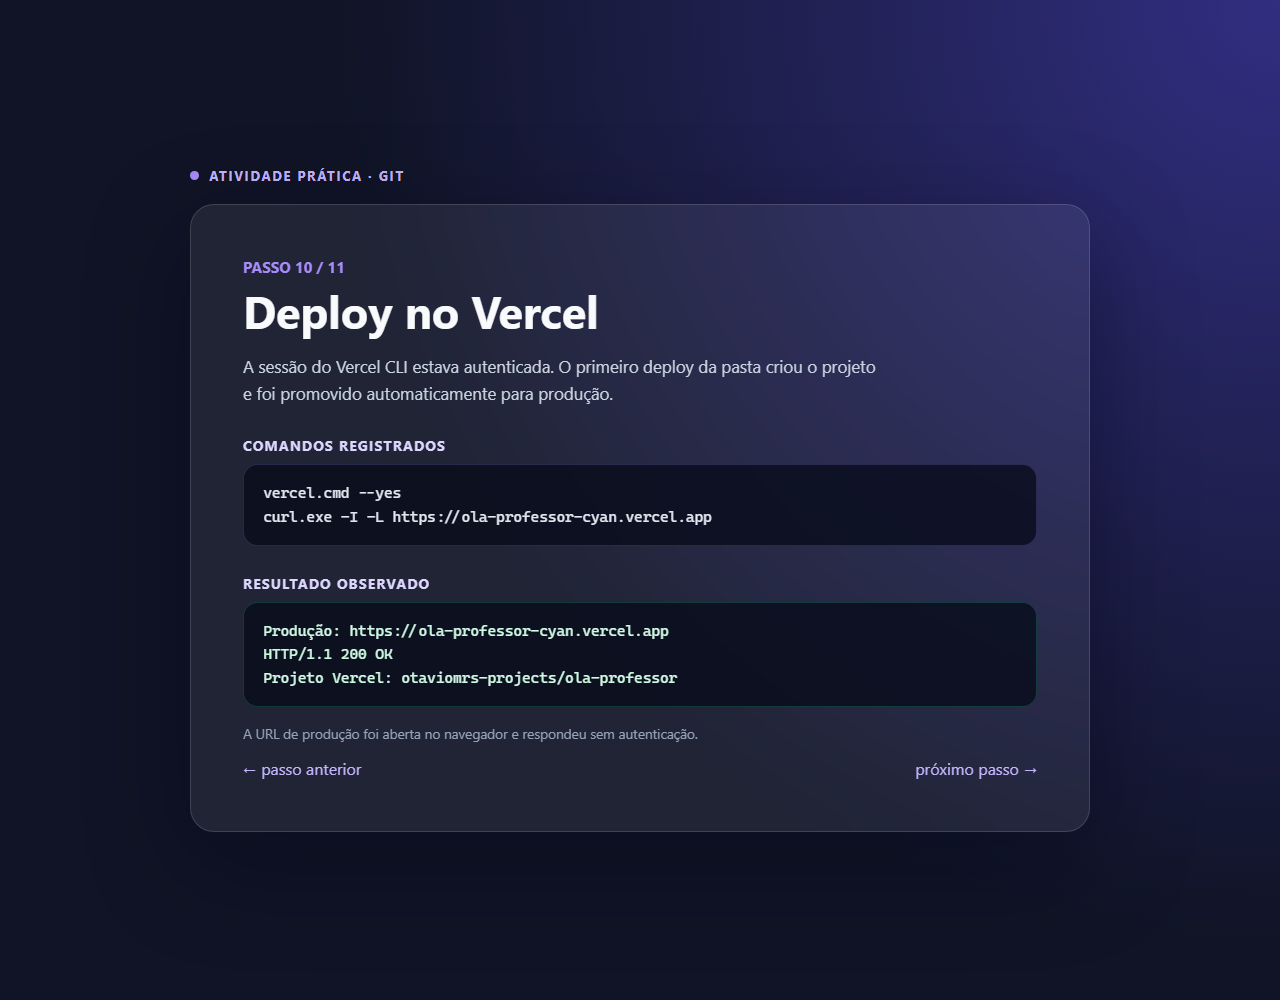
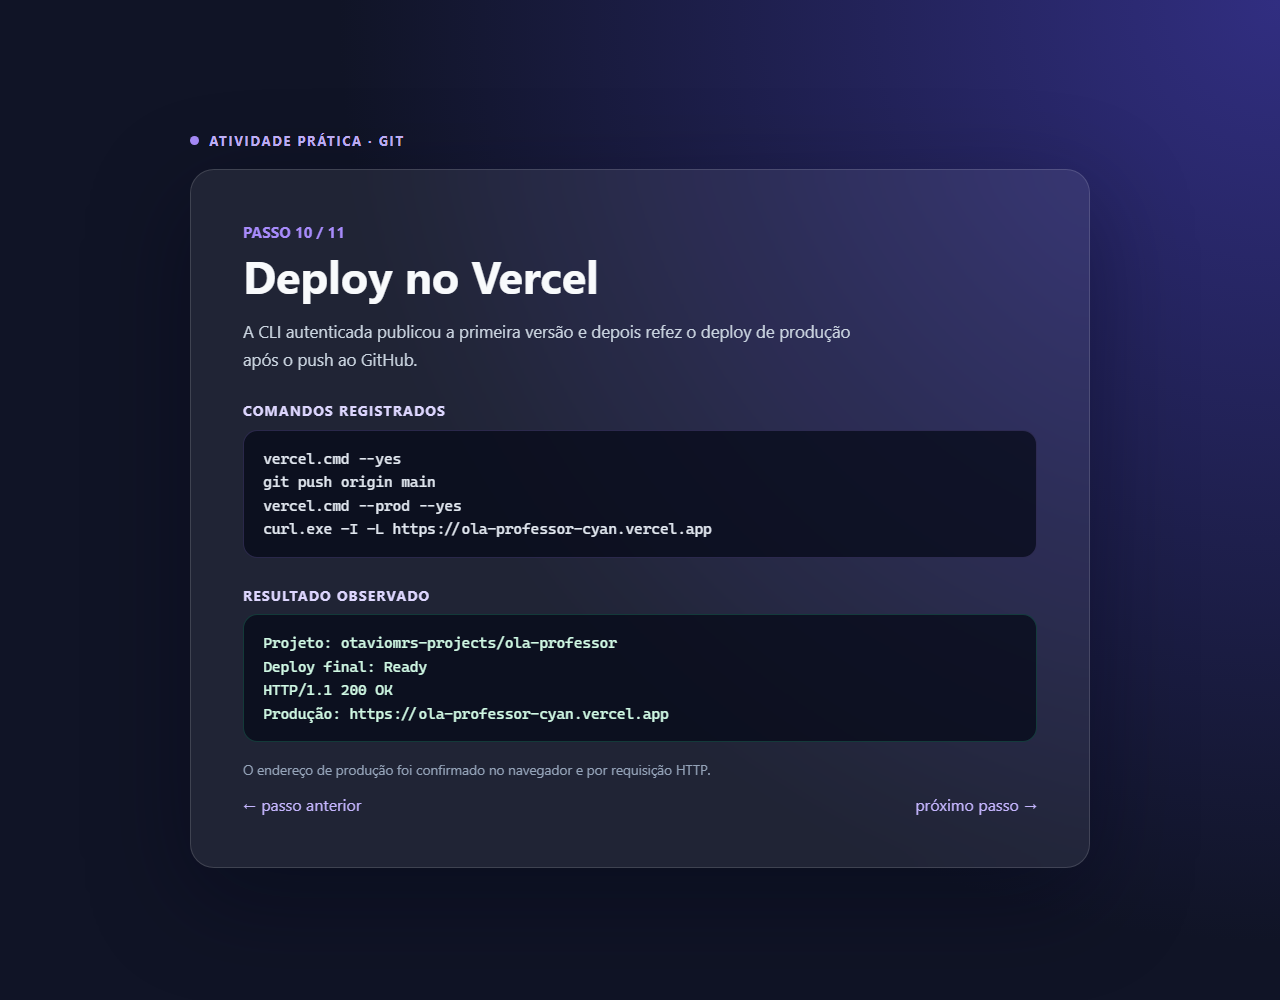
docs: finaliza evidências da atividade

diff --git a/docs/evidencias/index.html b/docs/evidencias/index.html
@@ -104,8 +104,8 @@
       { id: "07", title: "Bisect e hook pré-commit", summary: "Bisect localizou um commit ruim em uma sequência descartável. Um hook temporário bloqueou o commit de uma linha console.log e foi removido depois da demonstração.", commands: "git bisect start\ngit bisect bad\ngit bisect good main\ngit bisect good\ngit bisect reset\ngit fsck --full\ngit clean -fdn", result: "ea866bb é o primeiro commit ruim no ensaio de bisect.\nO hook recusou o commit com: Remova console.log antes de commitar.\nO ensaio e o hook não ficaram na branch main.", foot: "git clean foi consultado apenas com -n (simulação), sem apagar arquivos." },
       { id: "08", title: "Branches, worktree e tag", summary: "O grafo foi consultado, um worktree auxiliar foi criado e removido, e a versão final recebeu tags local e anotada.", commands: "git log --oneline --graph --decorate --all\ngit worktree add ../ola-professor-worktree feature/worktree-demo\ngit worktree list\ngit worktree remove ../ola-professor-worktree\ngit tag v1.0.0 -m \"versão inicial\"\ngit tag v1.0.0-beta", result: "Worktree auxiliar removido após a inspeção.\nTags v1.0.0 e v1.0.0-beta disponíveis localmente.", foot: "As tags serão enviadas ao remote local junto com a documentação." },
       { id: "09", title: "Remote, push, fetch e clone", summary: "Para praticar operações remotas sem credenciais GitHub, foi usado um repositório bare local separado da pasta do projeto.", commands: "git remote add origin ../ola-professor-remoto.git\ngit push -u origin main\ngit fetch --all\ngit clone --depth 1 <remote-local> <pasta-temporária>\ngit branch -vv", result: "origin/main recebeu a branch main.\nClone raso local abriu em main e apontou para origin/main.\nEste remote é local; não é uma publicação no GitHub.", foot: "Para usar GitHub, substitua origin pela URL do repositório da sua conta." },
-      { id: "10", title: "Deploy no Vercel", summary: "A sessão do Vercel CLI estava autenticada. O primeiro deploy da pasta criou o projeto e foi promovido automaticamente para produção.", commands: "vercel.cmd --yes\ncurl.exe -I -L https://ola-professor-cyan.vercel.app", result: "Produção: https://ola-professor-cyan.vercel.app\nHTTP/1.1 200 OK\nProjeto Vercel: otaviomrs-projects/ola-professor", foot: "A URL de produção foi aberta no navegador e respondeu sem autenticação." },
-      { id: "11", title: "GitHub e documentação", summary: "A branch main e os documentos da atividade foram enviados ao repositório fornecido pelo usuário; a produção também está no ar.", commands: "git remote -v\ngit push -u origin main\ngit status --short --branch\ngit log --oneline --graph --decorate --all", result: "GitHub: github.com/OtavioMR/SilvioFatecGit\nmain acompanha origin/main.\nProdução: https://ola-professor-cyan.vercel.app\nAs tags v1.0.0 e v1.0.0-beta serão enviadas após o commit final.", foot: "A captura 13 mostra o repositório após o push inicial." }
+      { id: "10", title: "Deploy no Vercel", summary: "A CLI autenticada publicou a primeira versão e depois refez o deploy de produção após o push ao GitHub.", commands: "vercel.cmd --yes\ngit push origin main\nvercel.cmd --prod --yes\ncurl.exe -I -L https://ola-professor-cyan.vercel.app", result: "Projeto: otaviomrs-projects/ola-professor\nDeploy final: Ready\nHTTP/1.1 200 OK\nProdução: https://ola-professor-cyan.vercel.app", foot: "O endereço de produção foi confirmado no navegador e por requisição HTTP." },
+      { id: "11", title: "GitHub e documentação final", summary: "main, as branches de funcionalidade e as duas tags foram enviadas ao repositório do usuário; a produção também está no ar.", commands: "git push origin main\ngit push origin --tags\ngit status --short --branch\ngit log --oneline --graph --decorate --all", result: "GitHub: github.com/OtavioMR/SilvioFatecGit\nmain e três branches de funcionalidade publicadas.\nTags v1.0.0 e v1.0.0-beta enviadas.\nProdução: https://ola-professor-cyan.vercel.app", foot: "A captura final registra as evidências incluídas no repositório." }
     ];
 
     const params = new URLSearchParams(location.search);

diff --git a/docs/DOCUMENTACAO_ATIVIDADE.md b/docs/DOCUMENTACAO_ATIVIDADE.md
@@ -103,9 +103,9 @@ Captura: [`evidencias/08-bisect-hook.png`](./evidencias/08-bisect-hook.png).
 1. Consultei o grafo de commits, as branches e o tracking local/remoto.
 2. Criei uma branch temporária e um segundo worktree com `git worktree add`.
 3. Listei os worktrees e removi o worktree auxiliar com `git worktree remove`; a branch temporária também foi removida.
-4. Registrei `v1.0.0` como tag anotada e `v1.0.0-beta` como tag leve.
+4. Registrei `v1.0.0` como tag anotada e `v1.0.0-beta` como tag leve, depois enviei ambas com `git push origin --tags`.
 
-As tags são locais até que sejam enviadas com `git push origin --tags`. Captura: [`evidencias/09-worktree-tags.png`](./evidencias/09-worktree-tags.png).
+Captura: [`evidencias/09-worktree-tags.png`](./evidencias/09-worktree-tags.png).
 
 ## 9. Remoto, push, fetch e clone
 
@@ -115,9 +115,10 @@ As tags são locais até que sejam enviadas com `git push origin --tags`. Captur
 4. Depois que você enviou a URL do GitHub, renomeei o remote local para `origin-lab` e configurei `origin` como `https://github.com/OtavioMR/SilvioFatecGit.git`.
 5. O repositório estava vazio. O push `git push -u origin main` concluiu e a branch `main` passou a rastrear `origin/main`.
 6. Enviei também as branches `feature/animacao`, `feature/nova-cor` e `feature/acessibilidade-saudacao`.
-7. A captura [`evidencias/13-github-repository.png`](./evidencias/13-github-repository.png) mostra o conteúdo no repositório GitHub.
+7. Enviei as tags com `git push origin --tags` e confirmei os refs remotos com `git ls-remote --tags origin`.
+8. A captura [`evidencias/13-github-repository.png`](./evidencias/13-github-repository.png) mostra o conteúdo e as tags no repositório GitHub.
 
-O repositório GitHub informado para publicação é [`OtavioMR/SilvioFatecGit`](https://github.com/OtavioMR/SilvioFatecGit). O push da branch `main` e das tags será registrado depois que a documentação e todas as capturas estiverem prontas.
+O repositório GitHub informado para publicação é [`OtavioMR/SilvioFatecGit`](https://github.com/OtavioMR/SilvioFatecGit). `main`, as branches de funcionalidade e as tags foram enviados.
 
 Captura: [`evidencias/10-remoto-local.png`](./evidencias/10-remoto-local.png).
 
@@ -128,12 +129,11 @@ Captura: [`evidencias/10-remoto-local.png`](./evidencias/10-remoto-local.png).
 3. O site ficou disponível em [`https://ola-professor-cyan.vercel.app/`](https://ola-professor-cyan.vercel.app/).
 4. Confirmei a resposta com `curl.exe -I -L https://ola-professor-cyan.vercel.app`; o servidor retornou **HTTP 200 OK**.
 5. A captura [`evidencias/11-vercel-publicado.png`](./evidencias/11-vercel-publicado.png) mostra o site publicado. A captura [`evidencias/12-vercel-deploy.png`](./evidencias/12-vercel-deploy.png) registra os comandos e o endereço.
-
-Depois do push inicial, executarei `vercel.cmd --prod --yes` para deixar a publicação de produção alinhada à versão final documentada.
+6. Depois do push ao GitHub, executei `vercel.cmd --prod --yes` novamente. O deploy ficou **Ready** e manteve o endereço de produção [`https://ola-professor-cyan.vercel.app/`](https://ola-professor-cyan.vercel.app/).
 
 ## 11. Capturas de tela
 
-As capturas estão numeradas e foram salvas em [`evidencias/`](./evidencias/). As capturas 01 e 11 mostram o site no navegador local e na Vercel; 13 mostra o repositório no GitHub. As demais são capturas do painel de evidências no navegador, com os comandos e resultados observados de cada passo. O painel descreve cada captura em [`evidencias/index.html`](./evidencias/index.html).
+As capturas estão numeradas e foram salvas em [`evidencias/`](./evidencias/). As capturas 01 e 11 mostram o site no navegador local e na Vercel; 13 mostra o repositório no GitHub; 14 registra o estado final. As demais são capturas do painel de evidências no navegador, com os comandos e resultados observados de cada passo. O painel descreve cada captura em [`evidencias/index.html`](./evidencias/index.html).
 
 | Captura | Evidência |
 |---|---|
@@ -149,12 +149,13 @@ As capturas estão numeradas e foram salvas em [`evidencias/`](./evidencias/). A
 | [`10-remoto-local.png`](./evidencias/10-remoto-local.png) | Remote local, push, fetch e clone |
 | [`11-vercel-publicado.png`](./evidencias/11-vercel-publicado.png) | Aplicação publicada |
 | [`12-vercel-deploy.png`](./evidencias/12-vercel-deploy.png) | Registro do deploy |
-| [`13-github-repository.png`](./evidencias/13-github-repository.png) | Repositório GitHub após o push |
+| [`13-github-repository.png`](./evidencias/13-github-repository.png) | Repositório GitHub após o push e envio das tags |
+| [`14-status-final.png`](./evidencias/14-status-final.png) | Estado final documentado |
 
 O painel pode ser aberto em `http://127.0.0.1:8765/docs/evidencias/index.html?passo=01` enquanto o servidor local estiver ativo.
 
 ## 12. Publicação no GitHub
 
-O repositório remoto fornecido pelo usuário estava vazio antes do envio. O push inicial de `main` foi feito pela URL oficial HTTPS e apareceu no repositório. A CLI `gh` não está instalada; usei o remote Git do repositório e a credencial já configurada no ambiente. As tags e a documentação final serão enviadas no próximo push.
+O repositório remoto fornecido pelo usuário estava vazio antes do envio. Enviei `main`, as três branches de funcionalidade e as duas tags pela URL oficial HTTPS. A CLI `gh` não está instalada; usei o remote Git do repositório e a credencial já configurada no ambiente.
 
-O deploy da Vercel foi publicado pela CLI. A integração automática de deploy a cada push depende de conectar o projeto à conta GitHub nas configurações do projeto Vercel.
+O site está publicado pela Vercel CLI. A integração automática a cada push depende da autenticação no painel web da Vercel e da conexão do repositório GitHub nas configurações do projeto; a aba do painel solicitou login durante esta execução.
